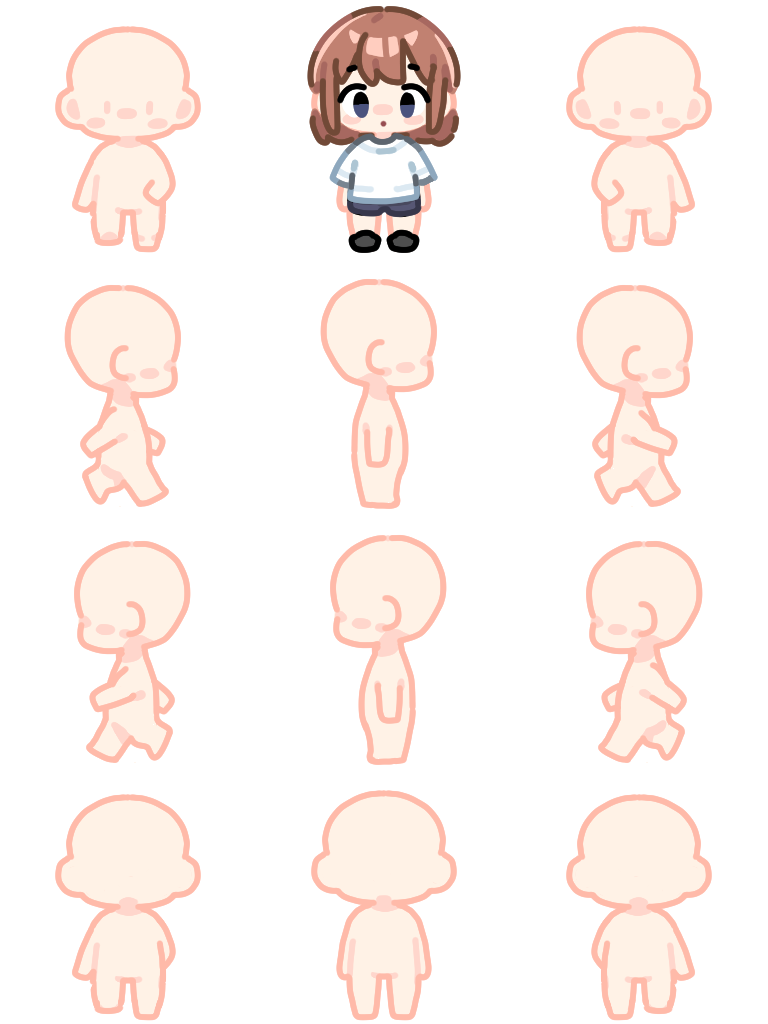
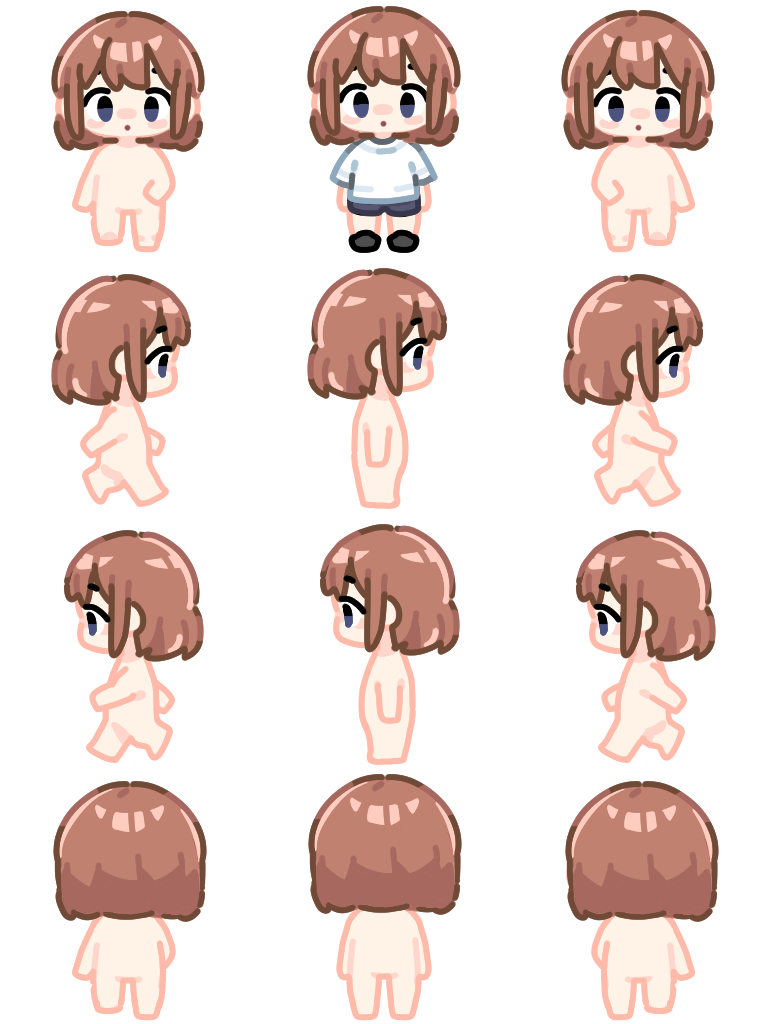
update map

diff --git a/app/components/RoomMap.vue b/app/components/RoomMap.vue
@@ -139,68 +139,11 @@ const { data: chatData } = await useAsyncData(
 
 mapInfo = roomData.value.map
 
-mapInfo = `[[
-    {
-        "itemid": 1,
-        "position": {
-            "x": 0,
-            "y": 0
-        }
-    }, {
-        "itemid": 1,
-        "position": {
-            "x": 1,
-            "y": 0
-        }
-    }, {
-        "itemid": 1,
-        "position": {
-            "x": 0,
-            "y": -1
-        }
-    }, {
-        "itemid": 2,
-        "position": {
-            "x": 1,
-            "y": -1
-        }
-    }, {
-        "itemid": 3,
-        "position": {
-            "x": 2,
-            "y": 0
-        }
-    }, {
-        "itemid": 4,
-        "position": {
-            "x": 0,
-            "y": -2
-        }
-    }, {
-        "itemid": 2,
-        "position": {
-            "x": 2,
-            "y": -1
-        }
-    }, {
-        "itemid": 4,
-        "position": {
-            "x": 1,
-            "y": -2
-        }
-    }, {
-        "itemid": 3,
-        "position": {
-            "x": 2,
-            "y": -2
-        }
-    }
-]]`
-
 if (isJSON(mapInfo) == false) {
     mapType = 'string'
+} else {
+    mapInfo = JSON.parse(mapInfo)
 }
-mapInfo = JSON.parse(mapInfo)
 
 const getFilePath = (tile) => {
     const path = `/tileset/${tile.itemid}.png`
